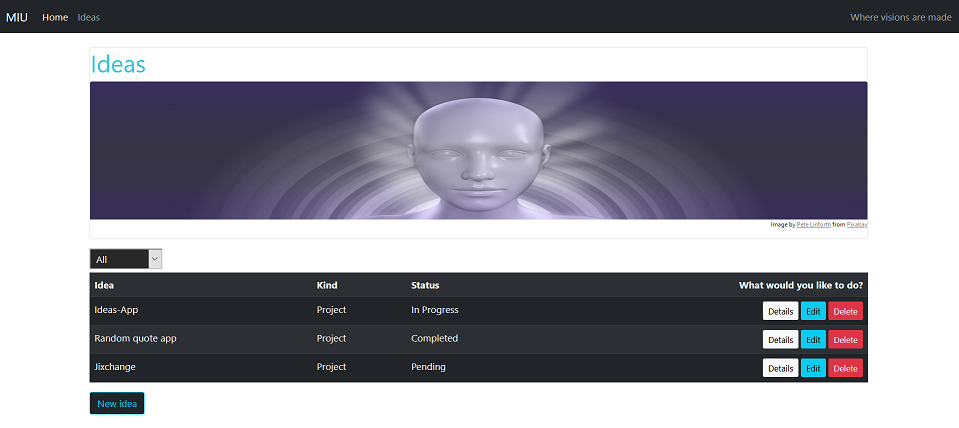
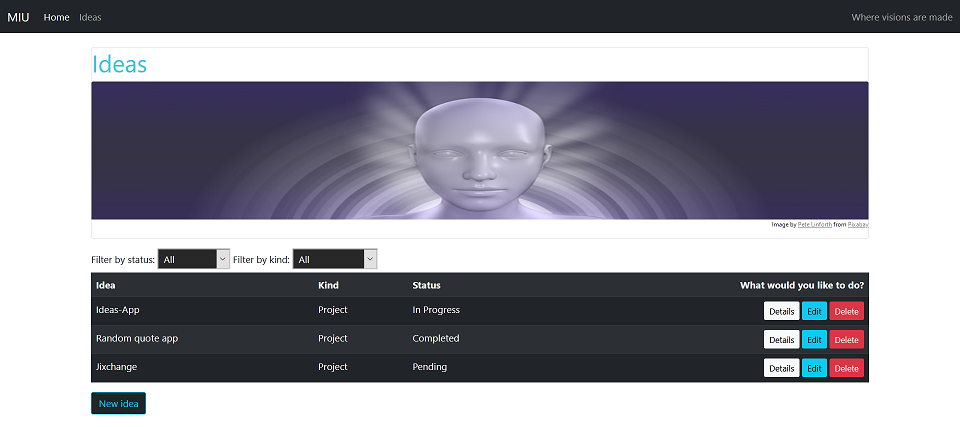
cleared out img folder

diff --git a/README.md b/README.md
@@ -11,7 +11,7 @@ Keep track of your ideas and visions and sort them by their name, kind of idea (
 
 ## List View
 
-![screenshot](static/img/screenshot_idealist2.png)
+![screenshot](static/img/screenshot_idealist.png)
 
 The ideas page provides you with an overview of all ideas in your database.
 Two dropdown menus let you filter ideas by their status and their kind.
